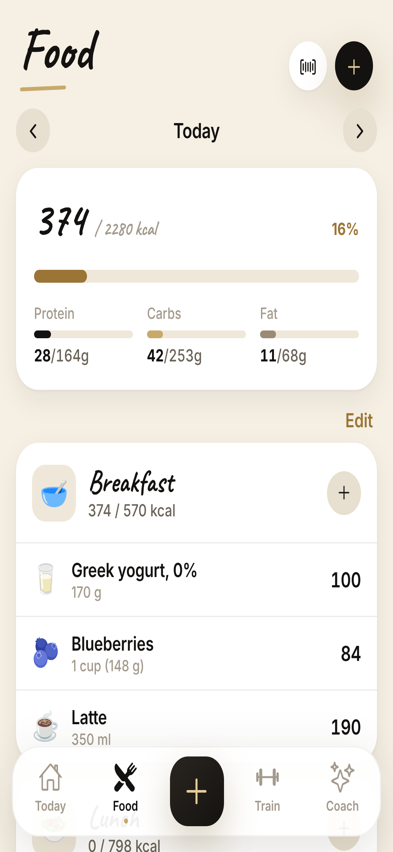
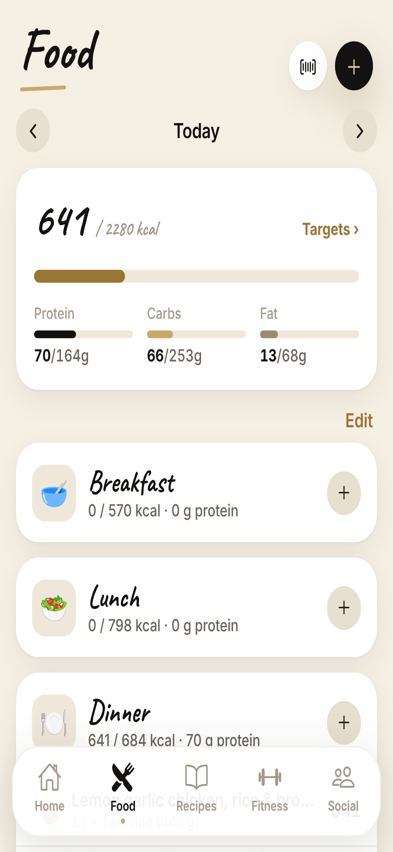
Docs: food-first README and proposal status
Claude-Session: https://claude.ai/code/session_01CE9o8M5HQhN3qHhreGyfdN

diff --git a/README.md b/README.md
@@ -2,28 +2,33 @@
 
 A fitness and wellness app for iOS and Android, built with **Expo (React Native + TypeScript)**. Cream, white, black and champagne gold, with handwritten notebook headings.
 
-| Today | Food | 3D trainer | Camera form check | Snap your meal | Gym buddies (18+) |
+**Food-first:** understand your food → discover your meals → track your progress. Fitness and community support it.
+
+| Home | Food | Recipes | Recipe | Snap your meal | 3D trainer |
 |---|---|---|---|---|---|
-| ![](docs/screenshots/today.png) | ![](docs/screenshots/food.png) | ![](docs/screenshots/trainer-3d.png) | ![](docs/screenshots/form-check.png) | ![](docs/screenshots/photo-scan.png) | ![](docs/screenshots/buddy-safety.png) |
+| ![](docs/screenshots/today.png) | ![](docs/screenshots/food.png) | ![](docs/screenshots/recipes.png) | ![](docs/screenshots/recipe.png) | ![](docs/screenshots/photo-scan.png) | ![](docs/screenshots/trainer-3d.png) |
+
+Navigation: **Home · Food · Recipes · Fitness · Social**
 
 ## Features
 
 | Area | What it does |
 |---|---|
-| **Onboarding** | Builds a daily calorie, macro and water plan; minimum age 16; health & safety notice must be accepted |
-| **Food tracking** | Diary by meal, calories-left hero, macro rings, every entry editable |
-| **UK nutrition data** | 2,854 generic foods from the UK government's CoFID 2021 dataset (Open Government Licence), logged by grams; salt shown as salt; kJ and kcal |
-| **Barcode & product scanner** | Live UK lookups on Open Food Facts (ODbL), warning when a product isn't listed as sold in the UK, FSA traffic lights, A–E grade, fit to your day |
-| **Snap your meal** | Photo → Claude vision identifies foods and estimates grams on Breeze's server → nutrition from CoFID → you confirm before logging |
-| **3D trainer** | Original 3D mannequin demonstrates all 36 exercises; drag to rotate, front/¾/side, half speed, phase cues |
-| **Camera form check** | On-device pose tracking counts reps and gives cautious, dismissible form cues; nothing recorded |
-| **Reps & progression** | Set logging, next-session targets, PRs, estimated 1-rep-max trends, rest timer |
-| **Goals & progression** | XP and levels (Whisper → Hurricane), streaks, goals, achievements |
-| **Plans** | Boxed meals for the week, shopping list by aisle, water schedule |
-| **AI trainer** | Chat coach that builds workouts and gives advice from your own logs (rule-based, on-device) |
-| **Gym buddies (18+)** | Meeting-safety guidelines, approximate distance only, block and report; no adult–minor matching |
+| **Home** | Calories remaining with protein/carbs/fat, one-tap logging (search, barcode, photo, saved), meals that fit your remaining calories and protein, eat-it-again, then fitness and community |
+| **Food diary** | Meals by category (add your own categories), every entry editable, copy yesterday, save any meal for reuse, water |
+| **Targets** | Calculated from your details (Mifflin–St Jeor), assumptions shown in plain English, every target editable |
+| **Food logging** | 2,854 UK foods (CoFID 2021, OGL) by grams, UK branded products and barcodes (Open Food Facts), favourites, saved and custom meals, manual entry, AI photo recognition |
+| **Recipes** | 22 launch recipes built from CoFID ingredients: nutrition per serving, allergens and diet labels are calculated, not typed. Need-based filters, best-fit ranking with reasons, servings scaling, method with timers, **Add to food diary** |
+| **Meal plan** | Plan recipes for the week and get a shopping list grouped by supermarket section |
+| **Ready meals** | *Coming soon* — no provider listings until agreements exist |
+| **Fitness** | 3D trainer for 36 exercises, camera form check (on-device), sets/reps/progression, rest timer, AI trainer |
+| **Social** | Gym buddies (18+, safety guidelines, block/report; sample profiles until accounts launch); community features listed as coming soon |
 
-Safety, privacy and age policy: [`docs/SAFETY_AND_PRIVACY.md`](docs/SAFETY_AND_PRIVACY.md) · Data licences: in-app under Profile → Data sources & licences.
+One nutrition engine (`src/lib/nutrition.ts`) does every calculation, so meal, day and recipe totals always agree. Entries store exact values and round only for display.
+
+Demo data: development builds start with two weeks of flagged sample history; release builds start empty. Remove or load it in Profile → Demo data.
+
+Safety, privacy and age policy: [`docs/SAFETY_AND_PRIVACY.md`](docs/SAFETY_AND_PRIVACY.md) · Data licences: in-app under Profile → Data sources & licences · Plan: [`docs/FOOD_FIRST_PROPOSAL.md`](docs/FOOD_FIRST_PROPOSAL.md).
 
 ## Run it in an emulator
 
@@ -45,14 +50,16 @@ Testing notes:
 ```bash
 npx tsc --noEmit
 npx expo lint
-npm test            # form-feedback engine unit tests
+npm test            # 30 tests: nutrition engine, recipes, form feedback
 ```
 
 ## Project structure
 
 ```
 src/app/                 screens (Expo Router)
-  (tabs)/                Today · Food · Train · Coach
+  (tabs)/                Home · Food · Recipes · Fitness · Social
+  recipe/[id].tsx        recipe page with Add to diary
+  targets.tsx, meal-builder.tsx
   exercise/[id].tsx      3D trainer, set logging, rest timer
   form-check/[id].tsx    camera form check (consent → setup → live → review)
   scanner.tsx            barcode / product scanner
@@ -61,7 +68,8 @@ src/app/                 screens (Expo Router)
 src/components/trainer/  3D mannequin, movement library, React Three Fiber view
 src/components/form/     camera + pose runner (WebView on device, iframe on web)
 src/lib/form/            form-feedback engine (pure TypeScript, unit-tested)
-src/lib/                 store, nutrition maths, UK food search, products, age policy, licences
+src/lib/                 store, nutrition engine, recipes engine, UK food search, products, age policy, licences
+src/data/recipes.ts      launch recipes (ingredients reference CoFID foods)
 src/data/cofid.json      UK CoFID 2021 (generated by scripts/import_cofid.py)
 supabase/                food-photo Edge Function + ai_usage migration
 scripts/                 CoFID importer, MediaPipe asset setup

diff --git a/docs/FOOD_FIRST_PROPOSAL.md b/docs/FOOD_FIRST_PROPOSAL.md
@@ -1,6 +1,8 @@
 # Breeze: food-first audit and proposal
 
-*Response to the "Breeze Master Product & Development Specification". This is for review before substantial implementation starts.*
+*Response to the "Breeze Master Product & Development Specification".*
+
+> **Status:** decisions made: ready meals as **Cook | Order** inside Recipes, **typographic covers** until licensed photos exist, **demo listings in test builds only**. **P1 and P2 are built:** shared nutrition engine with tests, editable targets, favourites, saved and custom meals, custom categories, copy day, demo-data switch, new Home and navigation, and 22 recipes calculated from CoFID with Add to diary. **Next: P3, ready meals** (provider catalogue, demo listings for test builds, filters, external links).
 
 **Direction:** Understand your food → Discover your meals → Track your progress. Food becomes the centre; fitness and community support it. The Breeze identity (cream, warm white, black, champagne gold, handwritten headings) stays.
 
